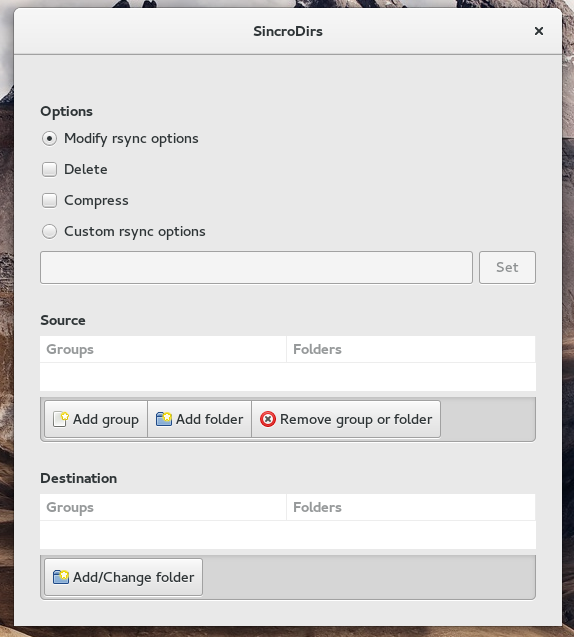
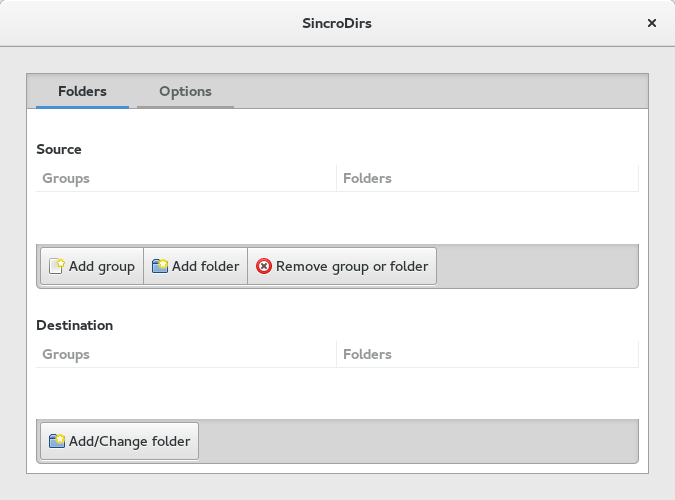
Readme update

Changed region(s): [[0.0, 0.0, 1.0, 1.0], [0.5035, 0.78, 0.5923, 0.81]]

diff --git a/README.md b/README.md
@@ -24,16 +24,22 @@ The first time the extension is executed needs to be configured. When you click 
 
 ![](https://github.com/Khudsa/sincrodirs/blob/master/_screenshots/2.png)
 
-Here you can modify the default options for rsync, -rlptq, and add the delete or compress options or set a new ones. Warning! Must be correct rsync options!
+You can add groups of folders to synchronize, add folders to the groups and add destination folders to the groups. You can can select a folder and remove it, or select a group and remove the group and all it's folders.
 
 ![](https://github.com/Khudsa/sincrodirs/blob/master/_screenshots/3.png)
 
-Next you can add groups of folders to synchronize, add folders to the groups and add destination folders to the groups. You can can select a folder and remove it, or select a group and remove the group and all it's folders.
-
 ![](https://github.com/Khudsa/sincrodirs/blob/master/_screenshots/4.png)
+
+On the next tab you can modify the default options for rsync and configure when you want to synchronize.
 
 ![](https://github.com/Khudsa/sincrodirs/blob/master/_screenshots/5.png)
 
-If you have configured the extension, now you can click again on the extension icon to view the groups to synchronize and some information of the last synchronization. You can click on the switch button to activate/deactivate that group synchronization. And the play button to synchronize.
+The defaults options for rsync are -rlptq, but you cand modify them and add the delete or compress options or set a new ones. Warning! Must be correct rsync options string! Also you can schedule the synchronization. You can specify none (no scheduled), one or more days to synchronize at an specific hour.
 
 ![](https://github.com/Khudsa/sincrodirs/blob/master/_screenshots/6.png)
+
+If you have configured the extension, now you can click again on the extension icon to view the groups to synchronize and some information of the last synchronization. You can click on the switch button to activate/deactivate that group synchronization. And the play button to synchronize.
+
+![](https://github.com/Khudsa/sincrodirs/blob/master/_screenshots/7.png)
+
+![](https://github.com/Khudsa/sincrodirs/blob/master/_screenshots/8.png)
